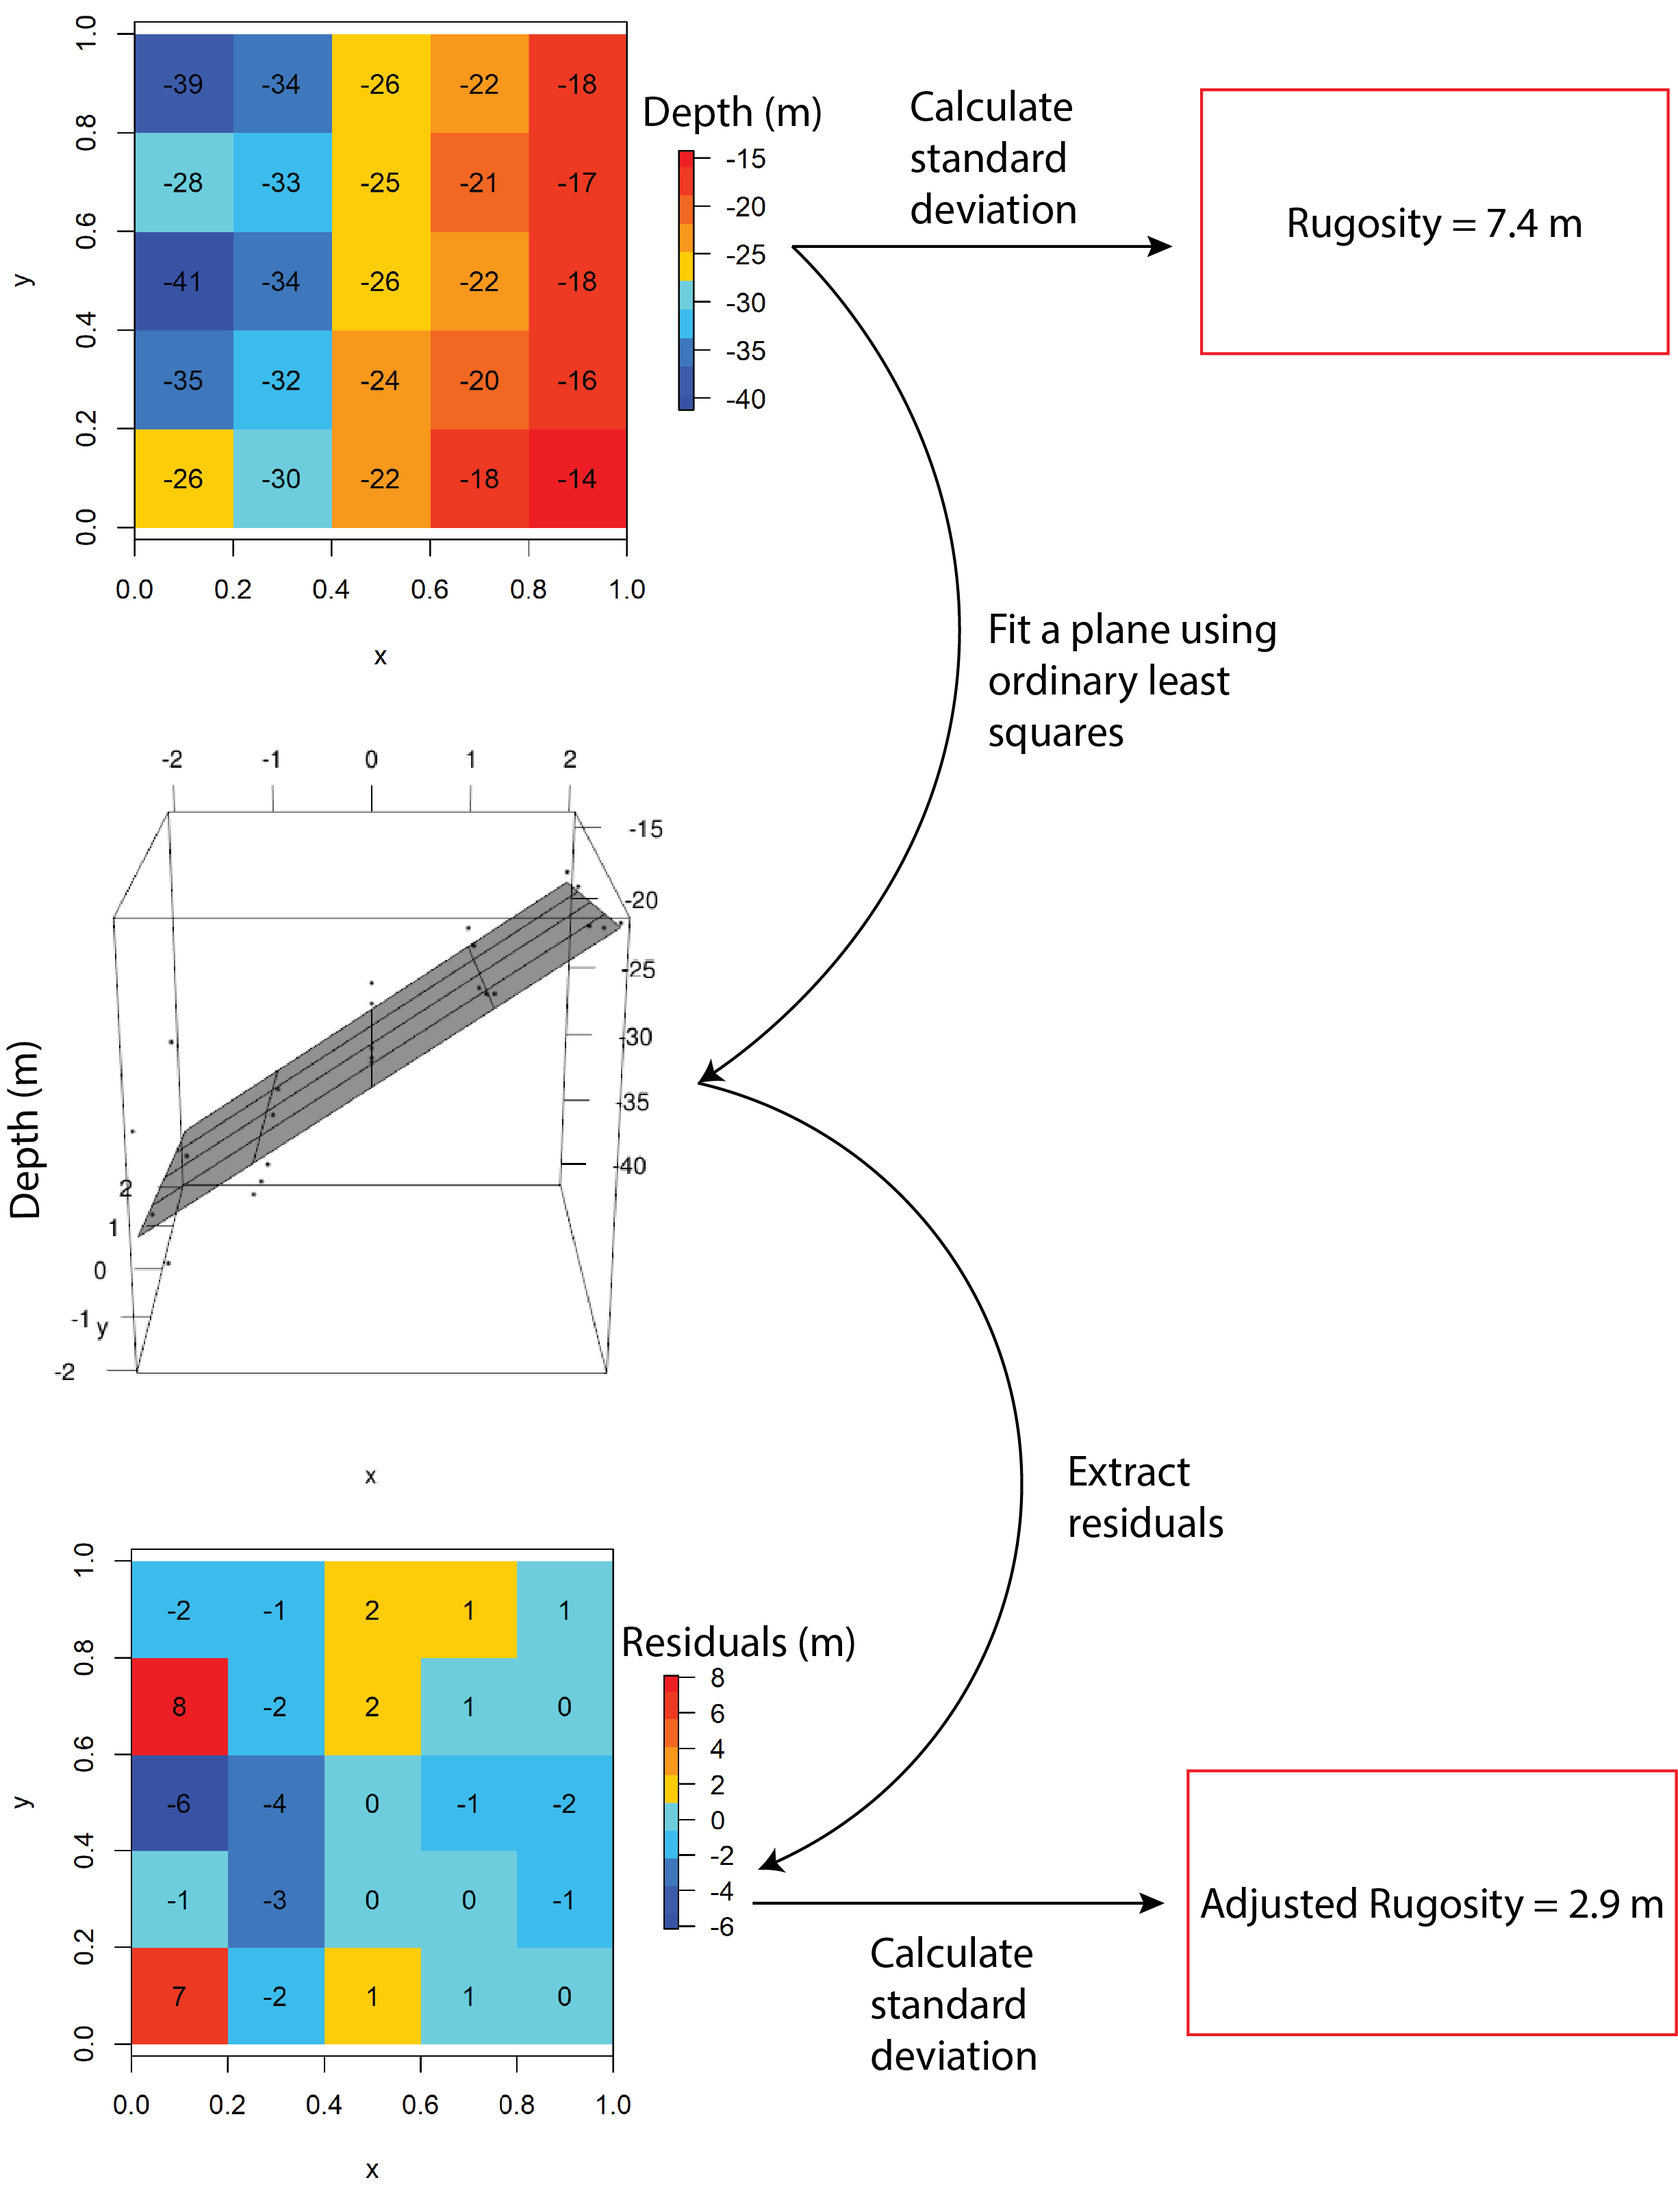
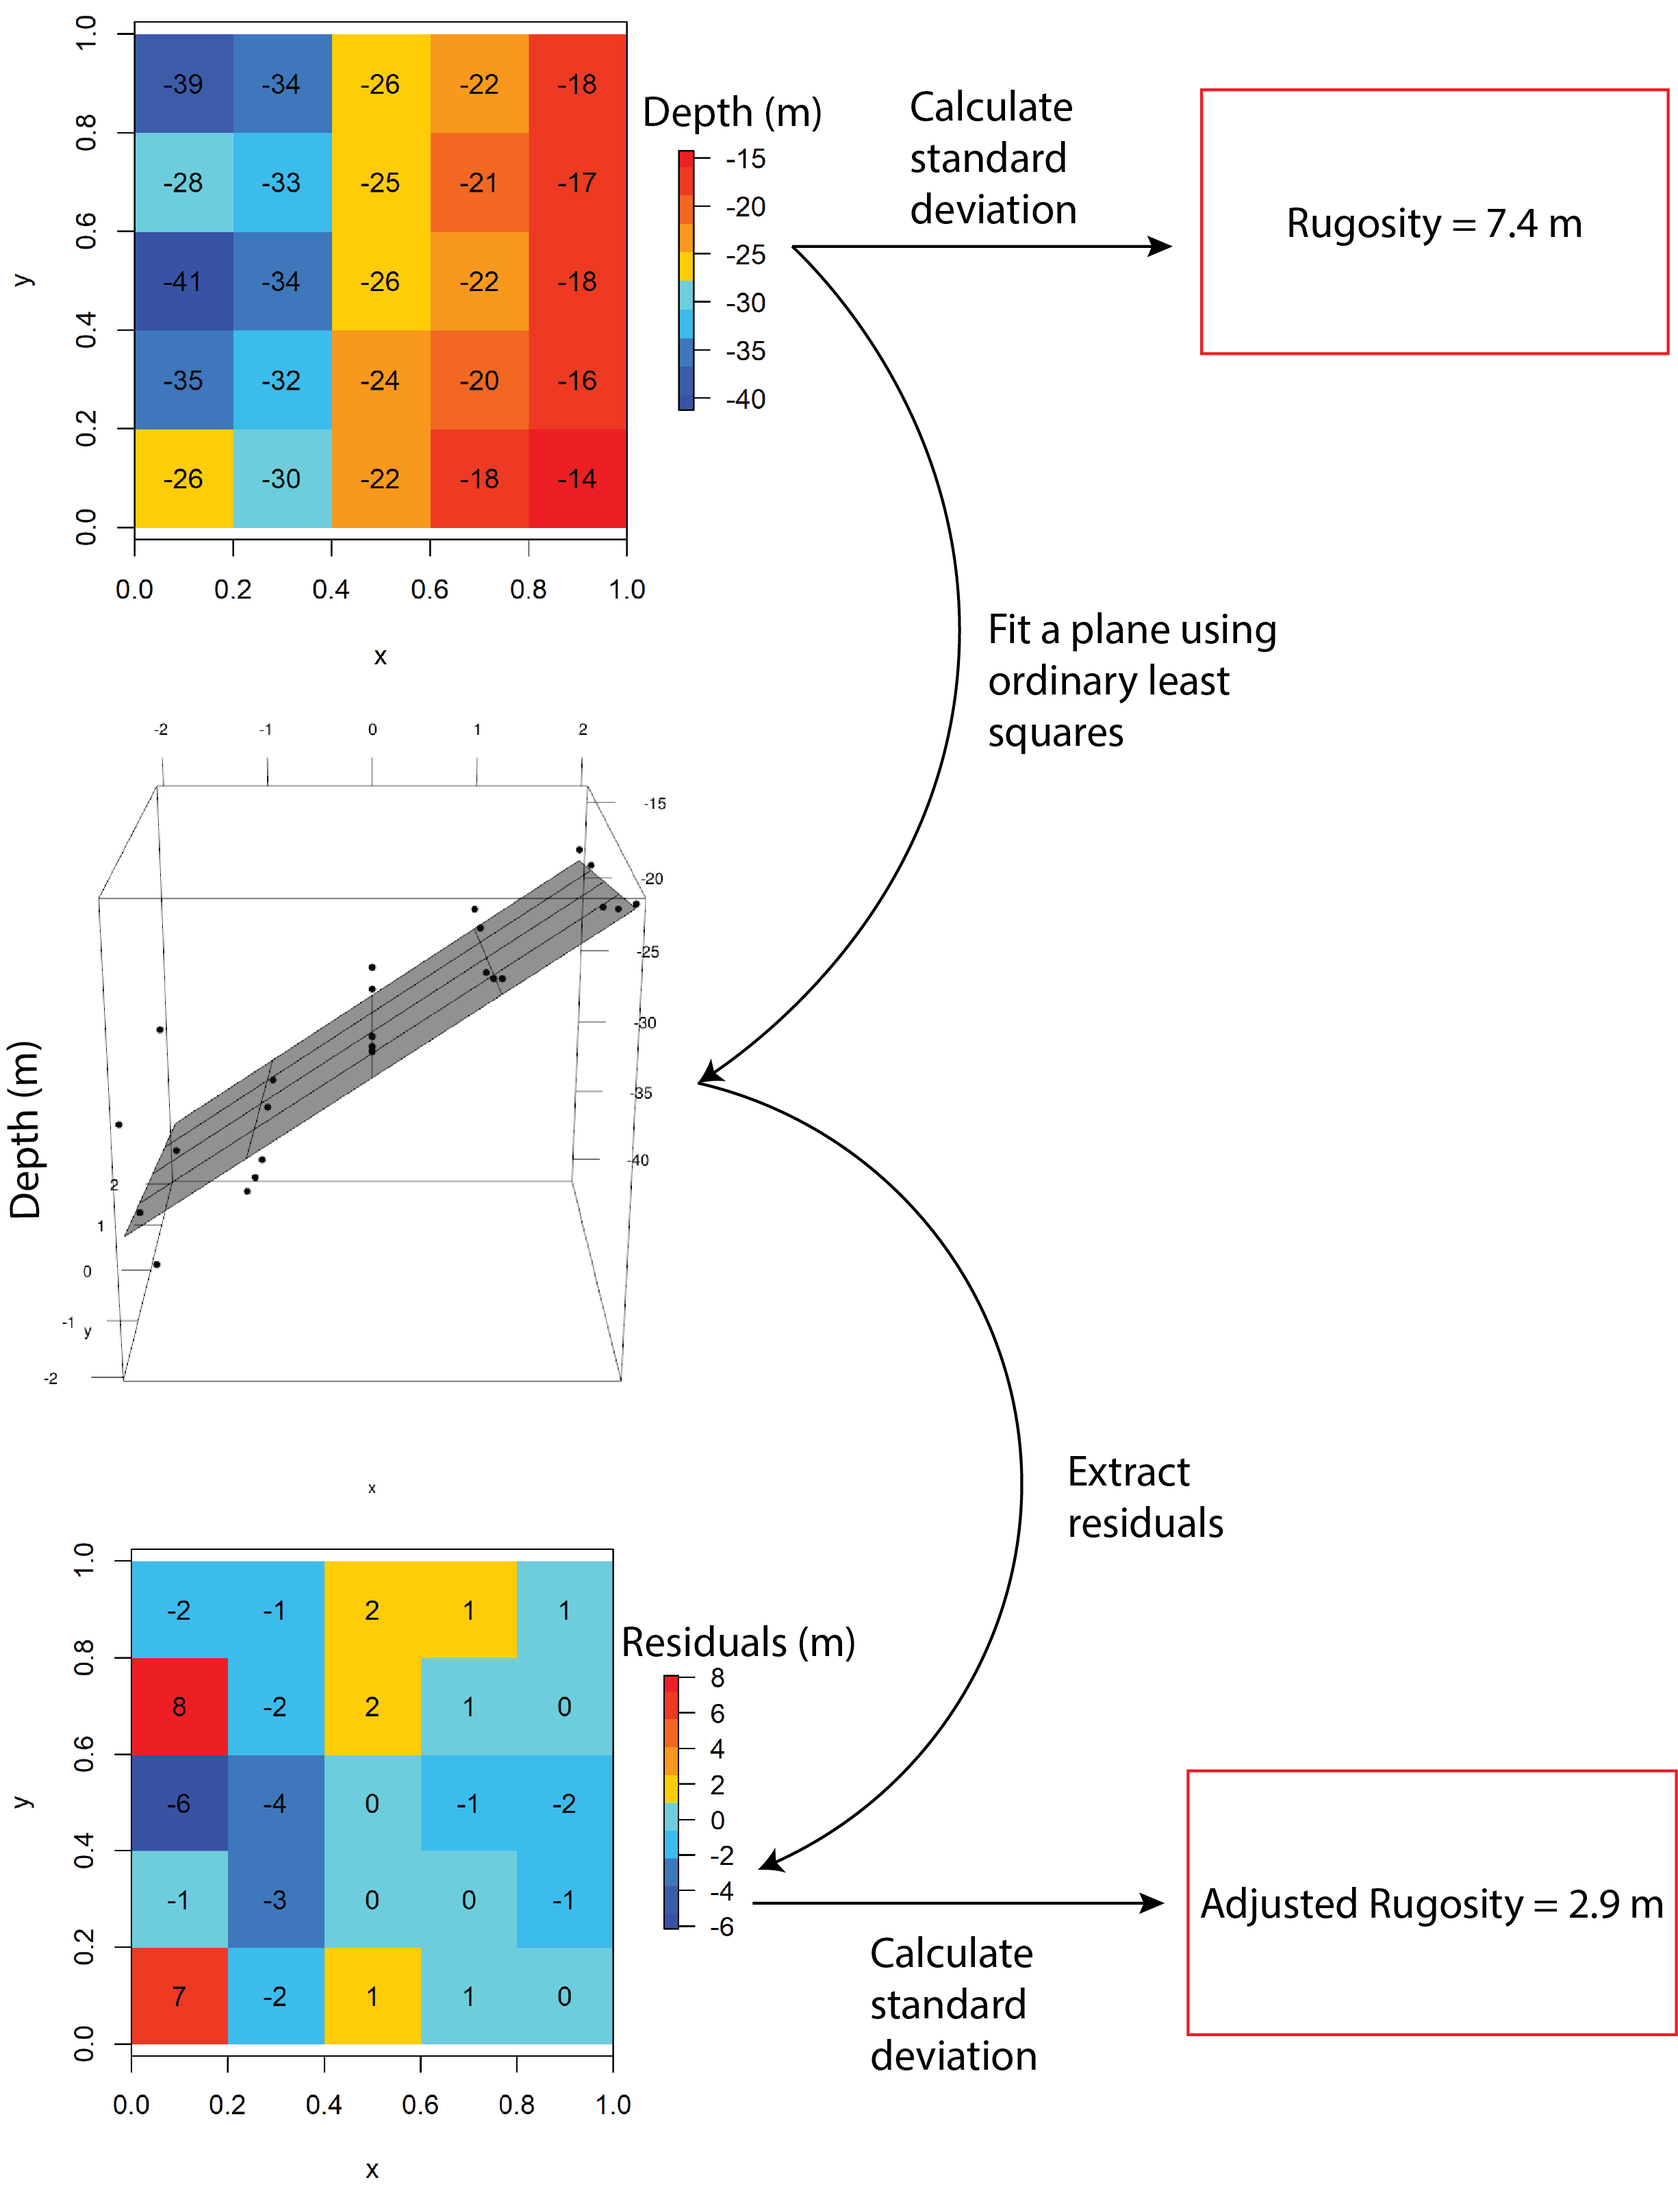
ReadME figure update - Make points more visible in adj_sd fig

diff --git a/README.md b/README.md
@@ -1,7 +1,7 @@
 README
 ================
 Alexander Ilich
-February 14, 2022
+February 17, 2022
 
 # MultiscaleDEM
 
